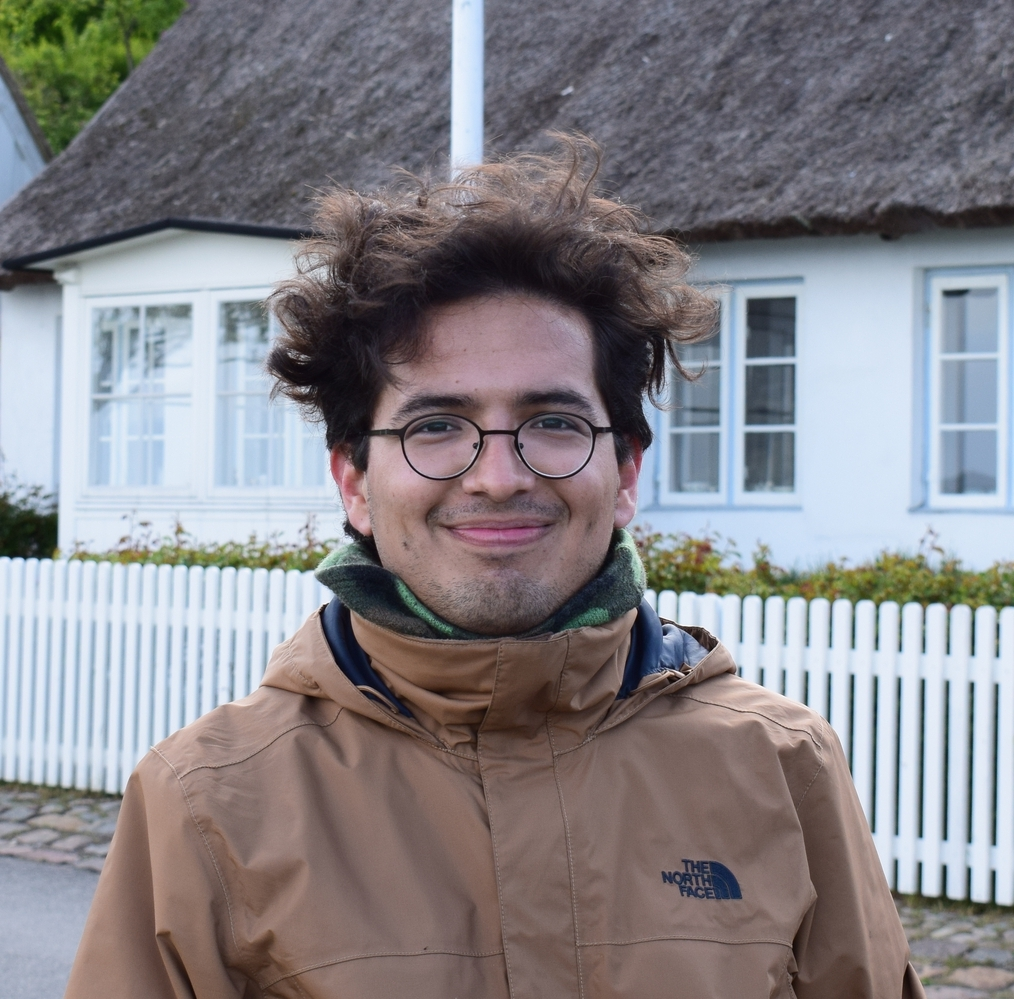
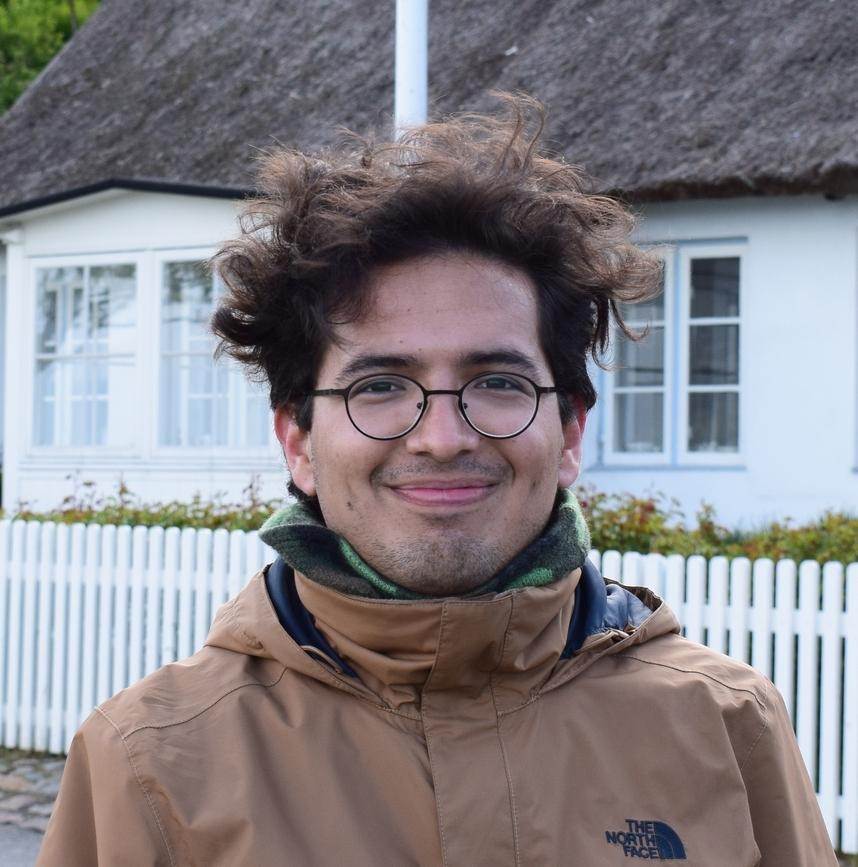
update photo

diff --git a/_pages/teaching.md b/_pages/teaching.md
@@ -8,17 +8,17 @@ author_profile: true
 ## <span style="text-decoration: underline">Lectures</span>
 
 ### National University of Colombia at Manizales, Department of Civil Engineering
- -  *I - 2016:* Lecturer of the course: structural reliability (In Spanish).
- -  *I - 2016:* Lecturer of the course: [numerical methods applied to civil engineering](https://github.com/diegoandresalvarez/metodosnumericos) (In Spanish).
+ -  *I - 2016:* Lecturer of the course: Structural reliability (In Spanish).
+ -  *I - 2016:* Lecturer of the course: [Numerical methods applied to civil engineering](https://github.com/diegoandresalvarez/metodosnumericos) (In Spanish).
 
 
 ## <span style="text-decoration: underline">Tutorials/Seminars</span>
 
 ### Technical University of Denmark, Department of Applied Mathematics and Computer Science
- -  *II - 2020:* Organization of reading course on sampling methods for Bayesian inverse problems.
+ -  *II - 2020:* Organization of the reading course on sampling methods for Bayesian inverse problems.
 
 ### Technical University of Munich, Department of Civil and Environmental Engineering
- -  *Summer term 2019:* Organization of [reading group on stochastic methods in engineering](https://www.bgu.tum.de/era/teaching/courses-offered/). 
+ -  *Summer term 2019:* Organization of the [reading group on stochastic methods in engineering](https://www.bgu.tum.de/era/teaching/courses-offered/). 
  -  *Summer term 2018:* Tutorials in [advanced stochastic finite element methods](https://www.bgu.tum.de/era/teaching/courses-offered/).
  -  *Winter term 2017/18:* Tutorials in [structural reliability](https://www.bgu.tum.de/era/teaching/courses-offered/).
  -  *Winter term 2016/17:* Tutorials in [structural reliability](https://www.bgu.tum.de/era/teaching/courses-offered/).
